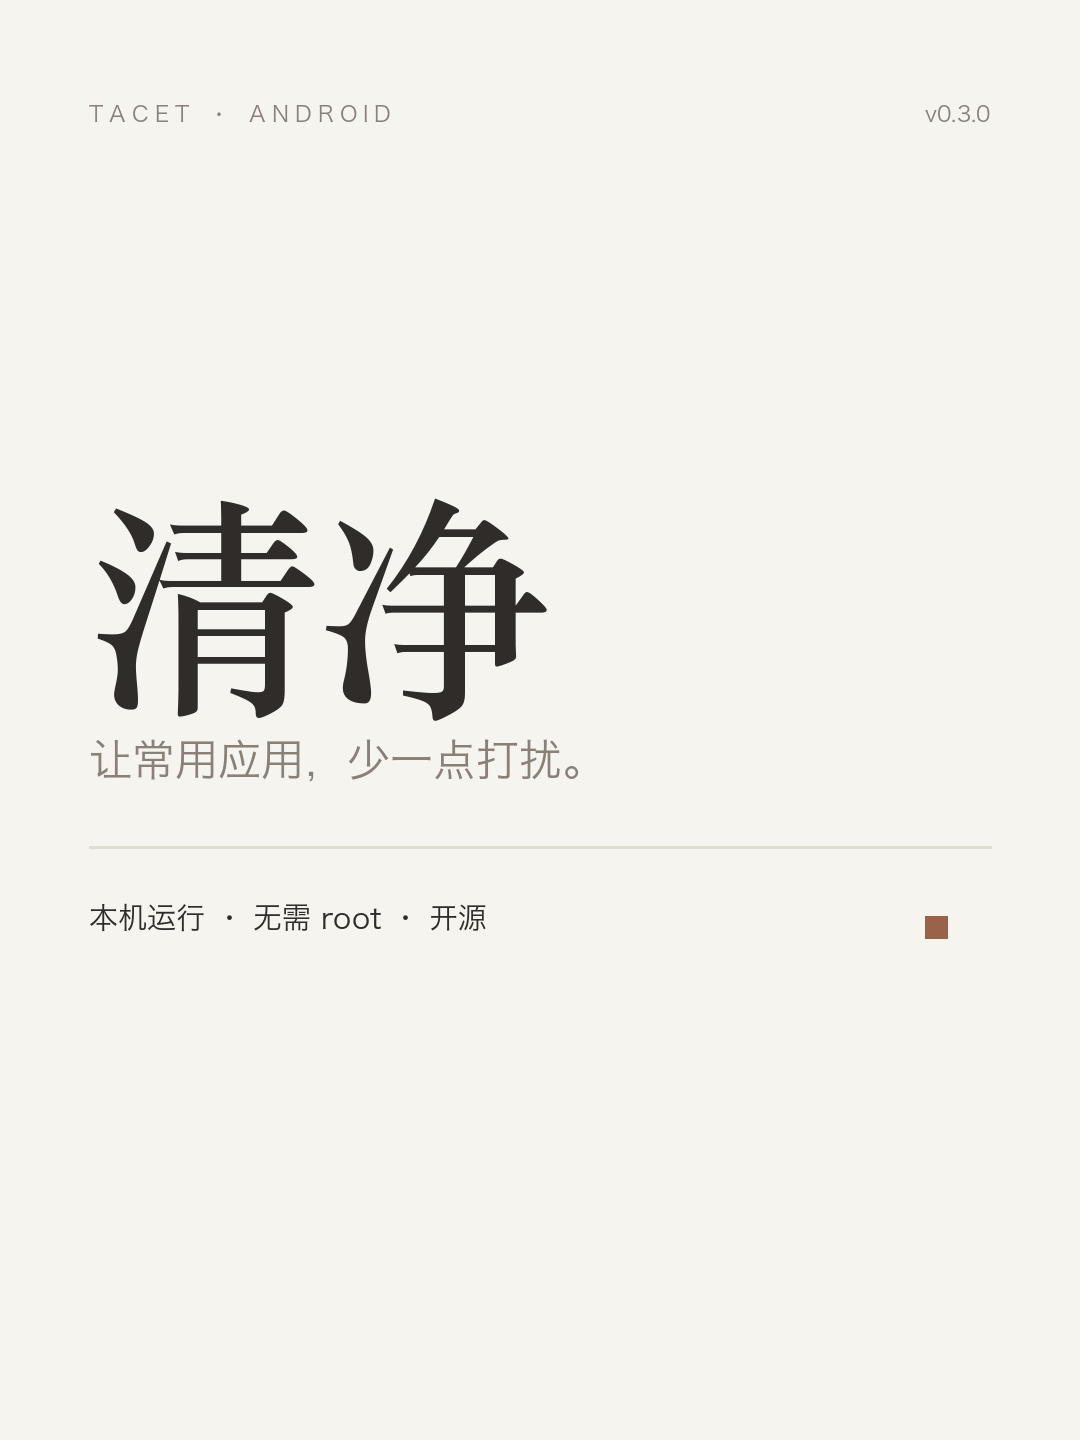
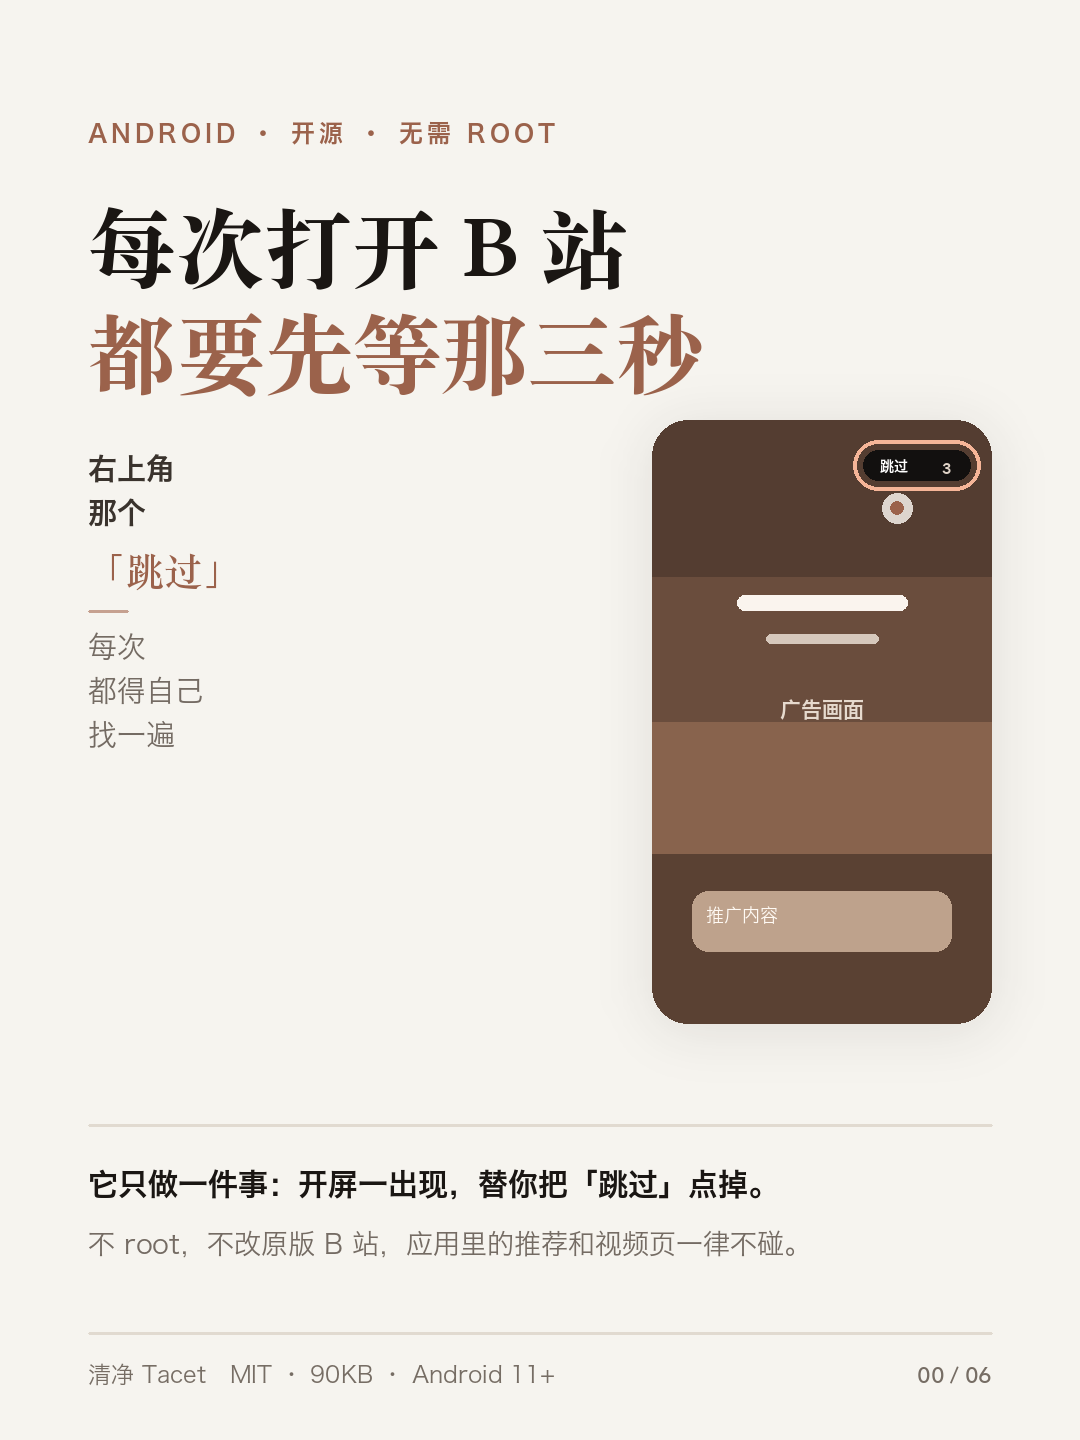
docs(share): rework share assets around the pain point
Lead every platform with the scene instead of a feature list: the
splash screen, the tiny skip button in the corner, and the three
seconds spent waiting for it. The cover now shows the splash mock
with the button circled, and card 02 compares 3.0s against ~0.5s.

Also switch to Songti headings with a calmer warm-white palette, and
add a layout checker that fails the build on margin overflow, element
overlap, footer intrusion, or text below 4.5:1 contrast.

diff --git a/docs/share/小红书/文案.md b/docs/share/小红书/文案.md
@@ -2,50 +2,51 @@
 
 ## 标题（选一个，上限 20，已校验）
 
-1. 把开屏广告去掉了
-2. 自己写了个去广告的小工具
-3. 写了个只去开屏的工具
+1. 开屏那三秒我不用再等了
+2. 每次开 B 站都要盯着跳过
+3. 把点跳过这件事交给工具
 
 ## 正文
 
-每天开 B 站，最烦的不是视频里的广告，是点开图标那 3 秒。
+每次点开 B 站，第一眼不是首页，是一张开屏海报。
 
-关不掉，也跳不过，只能干等。
+右上角有个「跳过」，很小。有时晚一秒才出来，有时被进度圈挡着。你得盯着它，手指停在那个位置，等它能按了才按下去。
 
-所以我写了个小工具，叫「清净」。
+三秒不长。但我一天要打开五六次。
 
-它只做一件事：开屏广告出来的一瞬间，替我把跳过点掉。
+所以写了个小工具，叫「清净」。它只干一件事：开屏一出来，替我把跳过点掉。
 
-📱 **不 root，不动原版 B 站**
+现在点开图标，闪一下，直接进首页。
 
-用的是系统自带的两个接口：本地 VPN 拦广告域名，无障碍服务点按钮。装完授权一次就能用。
+📱 **不 root，不改原版 B 站**
+
+用的是系统自带的两个接口：本地 VPN 接管 DNS 查询，无障碍服务点按钮。装完各授权一次就能用。
 
 🎯 **只管我选的应用**
 
-现在管着 B 站和养基宝。别的应用走原来的网络，一点不影响。
+现在是 B 站和养基宝。别的应用连一次查询都不会被改写。
 
-B 站我特意只开了"跳过开屏"，应用里的推荐、视频页都没碰——我怕影响正常内容。
+B 站我特意只开了「跳过开屏」，应用里的推荐、视频页一点没碰——怕影响正常内容。
 
 ⚙ **两项能力能分开关**
 
-每个应用都有独立的两个开关：
-· 自动跳过
-· 拦截广告请求
+· 自动跳过开屏和切回前台
+· 拦截广告域名
 
 嫌哪个多余就关掉哪个。
 
 ⚠ **先说做不到的**
 
-· 开屏还是会闪一下。跳过是广告出来之后才点的，想完全不显示，只能改 B 站客户端本身。
-· 手机同时只能跑一个 VPN。开着它，其他代理就用不了。
+· 开屏还是会闪一下。跳过是广告出现之后才点的动作，想完全不显示，只能改客户端本身。
+· 手机同时只能跑一个 VPN，跟代理类应用互斥。
 · 和正常内容一起返回的广告，域名过滤删不掉。
 
-这些限制我写在 README 第一屏，没藏在最后。
+这四条写在 README 第一屏，没藏到最后。
 
 🔗 开源，MIT 许可，代码在 GitHub：
-tacet（搜 bin-Deng-666/tacet）
+bin-Deng-666/tacet
 
-APK 只有 88KB，Android 11 以上都能装。
+APK 90KB，Android 11 以上都能装。
 
 ## 标签
 
@@ -53,16 +54,19 @@ APK 只有 88KB，Android 11 以上都能装。
 
 ## 配图顺序（6 张，在同目录）
 
-1. 01-封面.png — 主图
-2. 02-界面.png — 真实界面截图（证据）
-3. 03-能力.png — 三个能力
-4. 04-边界.png — 先说做不到的
-5. 05-常见问题.png — FAQ
-6. 06-上手.png — 上手步骤 + 仓库地址
+1. `01-封面.png` — 主图。开屏画面 + 圈出跳过按钮，直接摆出痛点
+2. `02-问题.png` — 时间条对比：以前 3 秒 vs 现在 0.5 秒
+3. `03-能力.png` — 三件事
+4. `04-界面.png` — 真实截图：首页只有一个开关，细节在二级页
+5. `05-边界.png` — 先说做不到的四条
+6. `06-上手.png` — 三步 + 仓库地址
+
+首图必须用 `01-封面.png`，不要换成截屏。
 
 ## 发布要点
 
-- 首图必须用 `01-封面.png`，不要换成截屏。
-- 正文里长链接写成仓库名，避免被判营销。
+- 标题 12 字以内，前 6 字要在信息流里能看清。
+- 正文第一句必须是痛点场景，不要一上来介绍工具。
+- 长链接写成仓库名，避免被判营销。
 - 可见范围：公开。
-- 发布后如需修改：图片可换、文案可改，改完重新进审核。
+- 发布后如需修改：图片可换、文案可改，改完重新进审核。无修改次数上限。

diff --git a/docs/share/B站/文案.md b/docs/share/B站/文案.md
@@ -1,15 +1,15 @@
 # B 站
 
-建议形态：**专栏**（图文，篇幅自由，可贴完整代码块和链接）。
-如果要拍视频，用同一套图的 16:9 做封面，正文分段念稿即可。
+建议形态：**专栏**（图文，篇幅自由，可贴代码块和链接）。
+如果要拍视频，用 16:9 封面，正文分段念稿即可。
 
 ## 标题（上限 80，建议 30 内，已校验）
 
 候选：
 
 1. 写了个只处理开屏的 Android 广告过滤工具
-2. 清净：一个只去掉打扰的 Android 小工具
-3. 不 root，只去开屏：我写了个 Android 广告过滤工具
+2. 三秒开屏，我不想再自己找跳过按钮了
+3. 不 root、不改客户端，把开屏跳过交给工具
 
 ## 分区
 
@@ -20,11 +20,15 @@
 
 ---
 
-每天打开 B 站，真正烦我的不是信息流里的广告，是点开图标之后那三秒开屏。
+每天点开 B 站，第一眼不是首页，是一张开屏海报。
 
-它有个"跳过"，但你要先看到它、再准确地按下去。三秒里有两秒在找按钮。
+右上角有个「跳过」，很小。有时晚一秒才出现，有时被进度圈挡着。你得盯着它，手指停在那个位置，等它能按了才按下去。
 
-于是我写了个小工具，名字叫「清净」（项目名 Tacet）。它的目标很窄：**只把"打扰"这一类广告去掉，不碰应用里的正常内容。**
+三秒不长。但一天打开五六次，一年就是两千多次。
+
+我写了个小工具，名字叫「清净」（项目名 Tacet）。它只干一件事：开屏一出来，替我把跳过点掉。现在点开图标，闪一下，直接进首页。
+
+它的目标很窄：**只去掉"打扰"这一类广告，不碰应用里的正常内容。**
 
 ## 它做什么
 
@@ -48,7 +52,7 @@
 
 这是我做这个工具时最重要的一个决定。
 
-最早版本是"全都拦"，结果发现会影响应用内的内容和推荐。查了 B 站的开屏数据来源才明白：开屏广告走的是 `/x/v2/splash/*` 这几个接口，**和正常业务共用主域**。
+最早版本是"全都拦"，结果会影响应用内的内容和推荐。查了 B 站的开屏数据来源才明白：开屏广告走的是 `/x/v2/splash/*` 这几个接口，**和正常业务共用主域**。
 
 也就是说，没法只拦开屏请求而不伤到正常功能。
 
@@ -107,12 +111,17 @@ python3 build.py --sdk /path/to/android-sdk --java /path/to/jdk --test
 
 ## 配图（在同目录）
 
-- `封面-16x9.png` — 专栏封面（1920×1080）
-- `配图-02-界面.png` ~ `配图-06-上手.png` — 正文插图（1080×1440）
+- `封面-16x9.png` — 专栏封面（1920×1080）。开屏画面 + 圈出跳过按钮 + 时间条
+- `配图-02-问题.png` — 时间条对比（以前 3 秒 vs 现在 0.5 秒）
+- `配图-03-能力.png` — 三件事
+- `配图-04-界面.png` — 真实截图
+- `配图-05-边界.png` — 做不到的四条
+- `配图-06-上手.png` — 三步 + 仓库地址
 
 ## 发布要点
 
 - 专栏正文可以直接粘贴上面的内容，B 站专栏支持小标题、代码块、长链接。
+- **专栏不是 Markdown 渲染器。** 粘贴前必须去掉 `**`、`##`、代码块围栏，否则会显示成一片符号。标题行直接写成普通文本即可。
 - **专栏每篇最多改 3 次，每次点"发布"算一次。** 发之前校对好，别反复改。
 - 专栏不加话题标签，靠分区和标题。
 - 发布后从 `/upload-manager/opus` 取公开链接（是 `bilibili.com/opus/<id>`，不是 `read/cv<id>`）。

diff --git a/docs/share/抖音/文案.md b/docs/share/抖音/文案.md
@@ -2,27 +2,33 @@
 
 ## 标题（选一个，上限 20，已校验）
 
-1. 写了个小工具去开屏广告
-2. B站开屏广告有救了
-3. 开屏广告，自己点掉
+1. 开屏跳过我自己点掉了
+2. 每次开 B 站都在等那三秒
+3. 写了个工具替我点跳过
 
 ## 描述（口语、短句、分点）
 
-B 站开屏那 3 秒广告，我终于能跳过了。
+每次点开 B 站，第一眼是开屏海报，不是首页。
 
-自己写了个小工具，叫「清净」。只干一件事：广告一出来就替我把跳过点掉。
+右上角有个「跳过」，很小。有时晚一秒才出来，有时被进度圈挡着。得盯着，等它能按了才按。
+
+三秒不长，一天要打开五六次。
+
+写了个小工具，叫「清净」。开屏一出来，替我把跳过点掉。
+
+现在点开，闪一下，直接进首页。
 
 不 root，不改原版 B 站。
-用的是系统自带的两个接口，装完授权一次就能用。
+用的是系统自带的两个接口，各授权一次就能用。
 
 只管我选的两个应用：B 站、养基宝。别的应用完全不受影响。
 
-B 站我特意只开了跳过开屏，应用里的推荐和视频页一点没动。
+B 站只开了跳过，应用里的推荐和视频页一点没动。
 
 做不到的也说了：
 开屏会闪一下，跳过是事后的动作；
-手机同时只能跑一个 VPN，跟代理应用互斥；
-和正常内容一起返回的广告，拦不住。
+手机同时只能跑一个 VPN；
+和正常内容一起返回的广告拦不住。
 
 代码开源，MIT 许可，搜 tacet。
 
@@ -32,18 +38,31 @@ B 站我特意只开了跳过开屏，应用里的推荐和视频页一点没动
 
 ## 配乐（必须选，发布后不可改）
 
-要求：无歌词、无人声、时长 ≥ 60 秒。
-建议在发布页「扩展信息 → 选择音乐」里搜索「轻音乐」「Lo-fi」「纯音乐」类，
-避开人声和强节奏，工具类内容不要用热门卡点音乐。
+内容性质：工具类图文，节奏平缓，没有卡点也没有情绪起伏。
+
+要求：
+- 无人声、无歌词
+- 时长 ≥ 60 秒
+- 节奏轻、鼓点不抢，不要热门卡点音乐
+- 避免「柔情似水」这类抒情钢琴曲——情绪偏软，和工具内容不搭
+
+在发布页「扩展信息 → 选择音乐」里搜：
+- `Lo-fi` — 最稳，干净电子底噪，工具/数码类通用
+- `轻电子` — 稍活跃，适合图文翻页
+- `纯音乐` 分类下挑 BPM 90 以下、编曲简单的
+
+试听判断标准：前 15 秒不出现明显人声或强旋律钩子，音量起伏小，不干扰读文字。
+
+编辑页没有音乐控件，发布时一次选对。
 
 ## 配图（6 张，在同目录）
 
-1. 01-封面.png
-2. 02-界面.png
-3. 03-能力.png
-4. 04-边界.png
-5. 05-常见问题.png
-6. 06-上手.png
+1. `01-封面.png`
+2. `02-问题.png`
+3. `03-能力.png`
+4. `04-界面.png`
+5. `05-边界.png`
+6. `06-上手.png`
 
 ## 发布要点（抖音特有约束）
 
@@ -62,4 +81,4 @@ B 站我特意只开了跳过开屏，应用里的推荐和视频页一点没动
 | 图片 | 不能 | 只能删了重发，丢播放和评论 |
 | 配乐 | 不能 | 只能删了重发 |
 
-结论：**发布前确认图序和配乐，发出去就别再想换图。**
+结论：**发布前确认图序和配乐，发出去就别再想换图或换音乐。**
